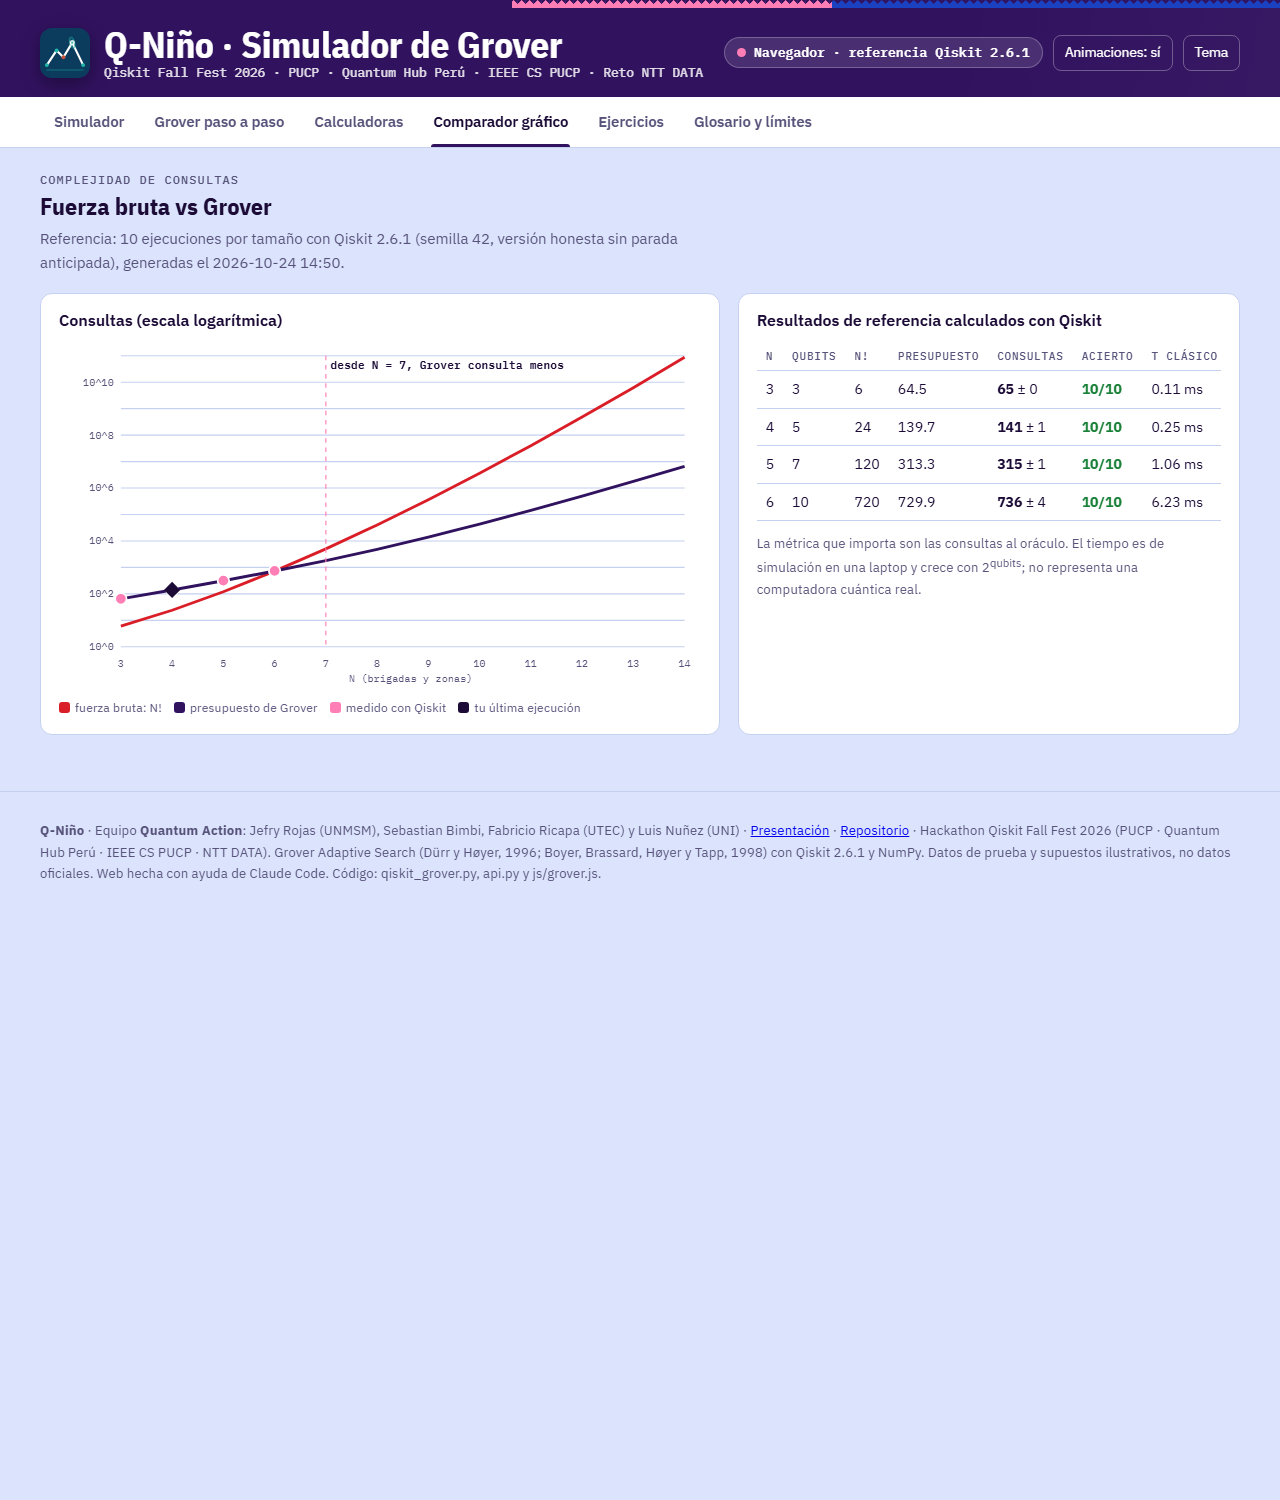
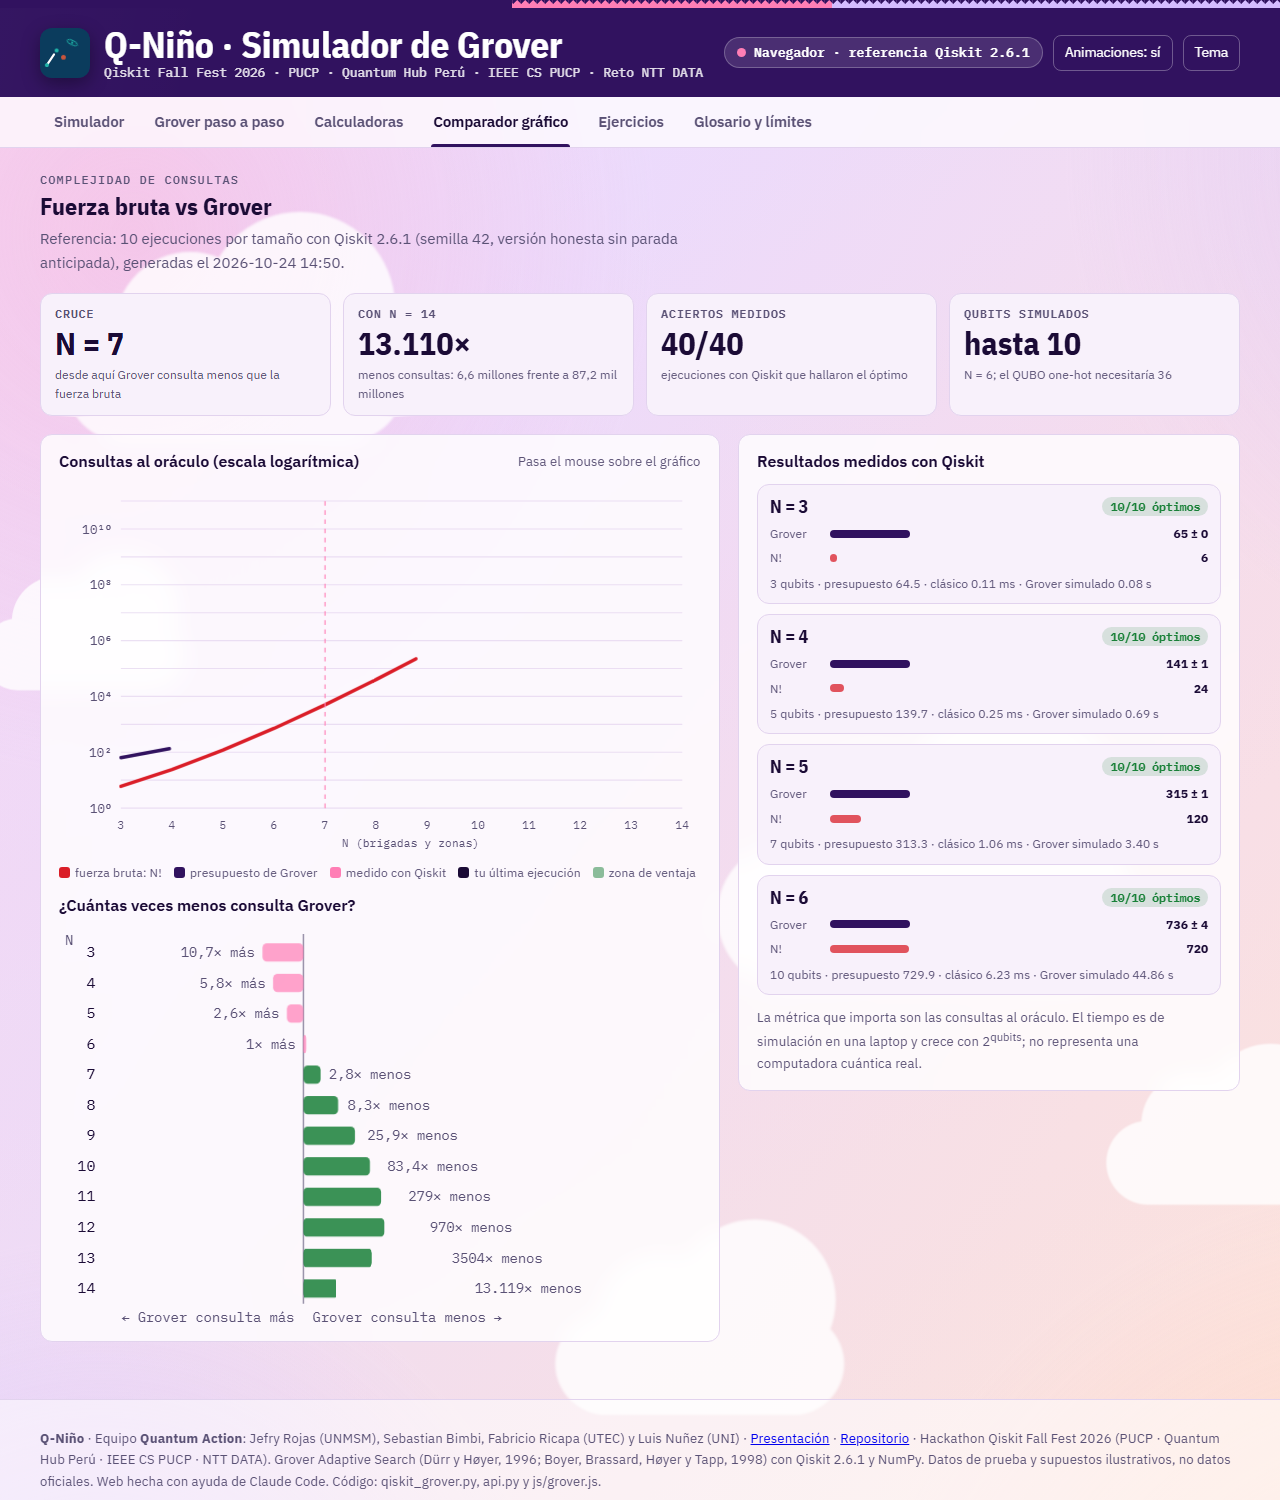
Rediseñar el comparador gráfico
- Datos clave: cruce en N = 7, 13 119× menos consultas con N = 14,
  40/40 óptimos y hasta 10 qubits simulados.
- Gráfico con líneas que se dibujan, zona de ventaja de Grover sombreada,
  potencias en superíndice y detalle por N al pasar el mouse.
- Nuevo gráfico de barras divergentes con cuántas veces más o menos
  consulta Grover para N = 3 a 14.
- Resultados de Qiskit como tarjetas con barras Grover vs N!, sin scroll.

diff --git a/js/app.js b/js/app.js
@@ -478,21 +478,74 @@ function iterCalc() {
 $("iU").onchange = iterCalc; $("iJ").oninput = iterCalc;
 
 /* ---------------- Comparador ---------------- */
+const SUP = s => String(s).replace(/[0-9]/g, d => "⁰¹²³⁴⁵⁶⁷⁸⁹"[d]);
+const fmtN = x => x >= 1e9 ? (x / 1e9).toLocaleString("es", { maximumFractionDigits: 1 }) + " mil millones" : x >= 1e6 ? (x / 1e6).toLocaleString("es", { maximumFractionDigits: 1 }) + " millones" : Math.round(x).toLocaleString("es");
 function renderCompare() {
   $("cmpIntro").textContent = Q ? `Referencia: ${Q.repeticiones} ejecuciones por tamaño con Qiskit ${Q.qiskit} (semilla ${Q.semilla}, versión honesta sin parada anticipada), generadas el ${Q.generado}.` : "Sin datos de referencia de Qiskit: ejecuta qiskit_grover.py.";
-  if (Q) $("rtab").innerHTML = `<tr><th class="num">N</th><th class="num">Qubits</th><th class="num">N!</th><th class="num">Presupuesto</th><th class="num">Consultas</th><th class="num">Acierto</th><th class="num">t clásico</th><th class="num">t Grover simulado</th></tr>` +
-    Object.values(Q.instancias).map(i => { const q = i.runs.map(r => r.consultas); return `<tr><td class="num">${i.n}</td><td class="num">${i.qubits}</td><td class="num">${i.M}</td><td class="num">${i.presupuesto}</td><td class="num"><b>${mean(q).toFixed(0)}</b> ± ${sd(q).toFixed(0)}</td><td class="num ok">${i.runs.filter(r => r.optimo).length}/${i.runs.length}</td><td class="num">${(i.clasico_s * 1000).toFixed(2)} ms</td><td class="num">${mean(i.runs.map(r => r.tiempo_s)).toFixed(2)} s</td></tr>`; }).join("");
-  const W = 560, H = 300, pl = 54, pb = 34, ns = [3, 4, 5, 6, 7, 8, 9, 10, 11, 12, 13, 14], X = n => pl + (W - pl - 14) * (n - 3) / 11, Y = v => 12 + (H - pb - 12) * (1 - Math.log10(v) / 11);
-  let g = ""; for (let e = 0; e <= 11; e++) g += `<line x1="${pl}" x2="${W - 14}" y1="${Y(10 ** e)}" y2="${Y(10 ** e)}" stroke="var(--line)"/>${e % 2 ? "" : `<text x="${pl - 6}" y="${Y(10 ** e) + 3}" text-anchor="end" font-size="9" fill="var(--muted)">10^${e}</text>`}`;
-  ns.forEach(n => g += `<text x="${X(n)}" y="${H - 16}" text-anchor="middle" font-size="9" fill="var(--muted)">${n}</text>`);
-  g += `<text x="${(pl + W) / 2}" y="${H - 3}" text-anchor="middle" font-size="9" fill="var(--muted)">N (brigadas y zonas)</text>`;
-  const line = (f, c) => `<path d="M${ns.map(n => X(n) + "," + Y(f(n))).join(" L")}" fill="none" stroke="${c}" stroke-width="2.5"/>`;
-  g += line(n => G.fact(n), "var(--bad)") + line(n => G.presupuesto(G.fact(n)), "var(--qiskit)");
-  const cross = ns.find(n => G.presupuesto(G.fact(n)) < G.fact(n));
-  g += `<line x1="${X(cross)}" x2="${X(cross)}" y1="12" y2="${H - pb}" stroke="var(--otono)" stroke-dasharray="4 4"/><text x="${X(cross) + 4}" y="24" font-size="10" fill="var(--ink)" font-weight="600">desde N = ${cross}, Grover consulta menos</text>`;
-  if (Q) Object.values(Q.instancias).forEach(i => g += `<circle cx="${X(i.n)}" cy="${Y(mean(i.runs.map(r => r.consultas)))}" r="5" fill="var(--otono)" stroke="var(--surface)" stroke-width="1.5"/>`);
-  if (R) g += `<rect x="${X(R.n) - 5}" y="${Y(mean(R.runs.map(r => r.consultas))) - 5}" width="10" height="10" fill="var(--ink)" transform="rotate(45 ${X(R.n)} ${Y(mean(R.runs.map(r => r.consultas)))})"/>`;
-  $("logc").innerHTML = g;
+  const ns = [3, 4, 5, 6, 7, 8, 9, 10, 11, 12, 13, 14], NF = n => G.fact(n), BU = n => G.presupuesto(G.fact(n));
+  const cross = ns.find(n => BU(n) < NF(n)), inst = Q ? Object.values(Q.instancias) : [];
+  const tot = inst.flatMap(i => i.runs), okAll = tot.filter(r => r.optimo).length, maxI = inst[inst.length - 1];
+
+  // Datos clave
+  $("cmpKpis").innerHTML = [
+    ["Cruce", `N = <span class="cnt">${cross}</span>`, "desde aquí Grover consulta menos que la fuerza bruta"],
+    ["Con N = 14", `<span class="cnt">${Math.round(NF(14) / BU(14)).toLocaleString("es")}</span>×`, `menos consultas: ${fmtN(BU(14))} frente a ${fmtN(NF(14))}`],
+    ["Aciertos medidos", `<span class="cnt">${okAll}</span>/${tot.length}`, `ejecuciones con Qiskit que hallaron el óptimo`],
+    ["Qubits simulados", `hasta <span class="cnt">${maxI ? maxI.qubits : "—"}</span>`, maxI ? `N = ${maxI.n}; el QUBO one-hot necesitaría ${maxI.n * maxI.n}` : ""]]
+    .map(([t, v, s], i) => `<div class="tile" style="--i:${i}"><span class="tl">${t}</span><b class="big">${v}</b><span class="ts">${s}</span></div>`).join("");
+
+  // Filas de resultados con barra Grover vs N!
+  $("rtab").innerHTML = inst.map((i, k) => { const q = i.runs.map(r => r.consultas), qm = mean(q), mx = Math.max(qm, i.M), ok = i.runs.filter(r => r.optimo).length;
+    return `<div class="rr" style="--i:${k}"><div class="rh"><b class="rn">N = ${i.n}</b><span class="badge ${ok === i.runs.length ? "ok" : "o"}">${ok}/${i.runs.length} óptimos</span></div>
+      <div class="rbars"><div class="mbar q"><span>Grover</span><i style="--w:${(qm / mx * 100).toFixed(1)}%"></i><b>${qm.toFixed(0)} ± ${sd(q).toFixed(0)}</b></div>
+      <div class="mbar"><span>N!</span><i style="--w:${(i.M / mx * 100).toFixed(1)}%"></i><b>${i.M}</b></div></div>
+      <span class="ts">${i.qubits} qubits · presupuesto ${i.presupuesto} · clásico ${(i.clasico_s * 1000).toFixed(2)} ms · Grover simulado ${mean(i.runs.map(r => r.tiempo_s)).toFixed(2)} s</span></div>`; }).join("");
+
+  // ¿Cuántas veces menos consulta? (barras divergentes, escala log)
+  const RW = 420, RH = ns.length * 20 + 20, mid = 160, sc = 26;
+  let r = `<line x1="${mid}" x2="${mid}" y1="4" y2="${RH - 14}" stroke="var(--muted)" stroke-opacity=".6"/>`;
+  r += `<text x="${mid - 6}" y="${RH - 2}" text-anchor="end" font-size="9" fill="var(--muted)">← Grover consulta más</text><text x="${mid + 6}" y="${RH - 2}" font-size="9" fill="var(--muted)">Grover consulta menos →</text>`;
+  ns.forEach((n, k) => { const ratio = NF(n) / BU(n), l = Math.log10(ratio), y = 8 + k * 20, w = Math.abs(l) * sc, win = ratio >= 1;
+    r += `<text x="24" y="${y + 11}" font-size="10" fill="var(--ink)" text-anchor="end">${n}</text>`;
+    r += `<rect class="rbar" style="--i:${k}" x="${win ? mid : mid - w}" y="${y + 2}" width="${Math.max(2, w)}" height="12" rx="3" fill="var(${win ? "--ok" : "--otono"})" fill-opacity="${win ? .85 : .7}"/>`;
+    r += `<text x="${win ? mid + w + 5 : mid - w - 5}" y="${y + 11}" font-size="9" fill="var(--muted)" text-anchor="${win ? "start" : "end"}">${win ? `${ratio >= 100 ? Math.round(ratio).toLocaleString("es") : ratio.toLocaleString("es", { maximumFractionDigits: 1 })}× menos` : `${(1 / ratio).toLocaleString("es", { maximumFractionDigits: 1 })}× más`}</text>`; });
+  r += `<text x="4" y="11" font-size="9" fill="var(--muted)">N</text>`;
+  $("ratio").setAttribute("viewBox", `0 0 ${RW} ${RH}`); $("ratio").innerHTML = r;
+
+  // Gráfico principal: líneas que se dibujan, zona de ventaja y detalle al pasar el mouse
+  const W = 560, H = 320, pl = 54, pb = 38, X = n => pl + (W - pl - 16) * (n - 3) / 11, Y = v => 14 + (H - pb - 14) * (1 - Math.log10(v) / 11);
+  let g = "";
+  for (let e = 0; e <= 11; e++) g += `<line x1="${pl}" x2="${W - 16}" y1="${Y(10 ** e)}" y2="${Y(10 ** e)}" stroke="var(--line)" stroke-opacity=".7"/>${e % 2 ? "" : `<text x="${pl - 8}" y="${Y(10 ** e) + 4}" text-anchor="end" font-size="11" fill="var(--muted)">10${SUP(e)}</text>`}`;
+  ns.forEach(n => g += `<text x="${X(n)}" y="${H - 20}" text-anchor="middle" font-size="10" fill="var(--muted)">${n}</text>`);
+  g += `<text x="${(pl + W) / 2}" y="${H - 4}" text-anchor="middle" font-size="10" fill="var(--muted)">N (brigadas y zonas)</text>`;
+  const pts = f => ns.map(n => [X(n), Y(f(n))]), pN = pts(NF), pB = pts(BU), ci = ns.indexOf(cross);
+  // zona de ventaja: entre N! (arriba) y el presupuesto (abajo) desde el cruce
+  const zone = [...pN.slice(ci - 1), ...pB.slice(ci - 1).reverse()];
+  g += `<polygon class="zone" points="${zone.map(p => p.join(",")).join(" ")}" fill="var(--ok)" fill-opacity=".12"/>`;
+  g += `<text class="zone" x="${X(11)}" y="${Y(1e7)}" font-size="11" font-weight="600" fill="var(--ok)" text-anchor="middle">zona de ventaja de Grover</text>`;
+  const path = (p, c, cls) => `<path class="ln ${cls}" pathLength="1" d="M${p.map(q => q.join(",")).join(" L")}" fill="none" stroke="${c}" stroke-width="3" stroke-linecap="round" stroke-linejoin="round"/>`;
+  g += path(pN, "var(--bad)", "l1") + path(pB, "var(--qiskit)", "l2");
+  g += `<line x1="${X(cross)}" x2="${X(cross)}" y1="14" y2="${H - pb}" stroke="var(--otono)" stroke-dasharray="4 4"/><g class="xlab"><rect x="${X(cross) + 6}" y="16" width="196" height="22" rx="11" fill="var(--surface)" stroke="var(--otono)"/><text x="${X(cross) + 104}" y="31" text-anchor="middle" font-size="11" font-weight="600" fill="var(--ink)">desde N = ${cross}, Grover consulta menos</text></g>`;
+  inst.forEach((i, k) => g += `<circle class="pt" style="--i:${k}" cx="${X(i.n)}" cy="${Y(mean(i.runs.map(r => r.consultas)))}" r="6" fill="var(--otono)" stroke="var(--surface)" stroke-width="2"/>`);
+  if (R) { const x = X(R.n), y = Y(mean(R.runs.map(r => r.consultas))); g += `<polygon class="pt" points="${x},${y - 8} ${x + 8},${y} ${x},${y + 8} ${x - 8},${y}" fill="var(--ink)" stroke="var(--surface)" stroke-width="2"/>`; }
+  g += `<line id="cguide" x1="0" x2="0" y1="14" y2="${H - pb}" stroke="var(--ink)" stroke-opacity=".35" hidden/><circle id="cgN" r="5" fill="var(--bad)" hidden/><circle id="cgB" r="5" fill="var(--qiskit)" hidden/>`;
+  g += `<rect id="chit" x="${pl}" y="0" width="${W - pl - 16}" height="${H - pb}" fill="transparent"/>`;
+  const svg = $("logc"); svg.setAttribute("viewBox", `0 0 ${W} ${H}`); svg.innerHTML = g;
+  svg.classList.remove("play"); void svg.getBoundingClientRect(); svg.classList.add("play");
+
+  // Detalle al pasar el mouse: N, N!, presupuesto y la razón
+  const tip = $("ctip");
+  svg.onpointermove = e => {
+    const b = svg.getBoundingClientRect(), x = (e.clientX - b.left) / b.width * W, n = Math.max(3, Math.min(14, Math.round(3 + (x - pl) / ((W - pl - 16) / 11))));
+    const gx = X(n), me = inst.find(i => i.n === n), ratio = NF(n) / BU(n);
+    ["cguide", "cgN", "cgB"].forEach(id => $(id).hidden = false);
+    $("cguide").setAttribute("x1", gx); $("cguide").setAttribute("x2", gx);
+    $("cgN").setAttribute("cx", gx); $("cgN").setAttribute("cy", Y(NF(n))); $("cgB").setAttribute("cx", gx); $("cgB").setAttribute("cy", Y(BU(n)));
+    tip.hidden = false; tip.style.left = `${gx / W * 100}%`;
+    tip.innerHTML = `<b>N = ${n}</b><span><i style="background:var(--bad)"></i>N! = ${fmtN(NF(n))}</span><span><i style="background:var(--qiskit)"></i>presupuesto = ${fmtN(BU(n))}</span>${me ? `<span><i style="background:var(--otono)"></i>medido = ${mean(me.runs.map(r => r.consultas)).toFixed(0)}</span>` : ""}<em class="${ratio >= 1 ? "ok" : ""}">${ratio >= 1 ? `Grover: ${ratio >= 100 ? Math.round(ratio).toLocaleString("es") : ratio.toLocaleString("es", { maximumFractionDigits: 1 })}× menos` : `Grover: ${(1 / ratio).toLocaleString("es", { maximumFractionDigits: 1 })}× más`}</em>`;
+  };
+  svg.onpointerleave = () => { tip.hidden = true; ["cguide", "cgN", "cgB"].forEach(id => $(id).hidden = true); };
+  if (!reduced()) document.querySelectorAll("#cmpKpis .cnt").forEach(countUp);
 }
 
 /* ---------------- Ejercicios y glosario ---------------- */
@@ -577,7 +630,7 @@ $("foot").innerHTML = `<b>Q-Niño</b> · Equipo <b>Quantum Action</b>: Jefry Roj
 
 /* ---------------- Navegación, motor y tema ---------------- */
 function seg(id, opts, curv, cb) { const el = $(id); el.innerHTML = opts.map(n => `<button type="button" data-v="${n}" aria-pressed="${n === curv}">${n}</button>`).join(""); el.onclick = e => { const b = e.target.closest("button"); if (b) cb(+b.dataset.v); }; }
-function show(v) { if (!document.getElementById("v-" + v)) v = "simulador"; document.querySelectorAll("#menu button").forEach(b => b.setAttribute("aria-selected", b.dataset.v === v)); document.querySelectorAll("section.view").forEach(s => s.hidden = s.id !== "v-" + v); stagger(`#v-${v} .card`, null); if (v === "simulador" && LM) setTimeout(() => { LM.invalidateSize(); drawMapReal.key = null; drawMap(); }, 60); if (v !== "animacion") stop(); try { history.replaceState(null, "", "#" + v); } catch {} window.scrollTo({ top: 0 }); }
+function show(v) { if (!document.getElementById("v-" + v)) v = "simulador"; document.querySelectorAll("#menu button").forEach(b => b.setAttribute("aria-selected", b.dataset.v === v)); document.querySelectorAll("section.view").forEach(s => s.hidden = s.id !== "v-" + v); stagger(`#v-${v} .card`, null); if (v === "comparador") renderCompare(); if (v === "simulador" && LM) setTimeout(() => { LM.invalidateSize(); drawMapReal.key = null; drawMap(); }, 60); if (v !== "animacion") stop(); try { history.replaceState(null, "", "#" + v); } catch {} window.scrollTo({ top: 0 }); }
 $("menu").onclick = e => { const b = e.target.closest("button"); if (b) show(b.dataset.v); };
 function updEngine() { const el = $("engine"); el.classList.toggle("live", useBackend);
   $("engineTxt").textContent = useBackend ? `Qiskit ${backend.qiskit} en vivo · servidor local` : backend ? "Navegador (clic para usar Qiskit en vivo)" : Q ? `Navegador · referencia Qiskit ${Q.qiskit}` : "Navegador"; }

diff --git a/css/styles.css b/css/styles.css
@@ -561,3 +561,35 @@ html.motion .log div.new{animation:slideIn .4s cubic-bezier(.2,.7,.2,1)}
 html.motion .bar.hit i{box-shadow:0 0 0 3px var(--surface),0 0 0 6px var(--otono)}
 @keyframes curPulse{50%{transform:scale(1.25)}}
 @keyframes ctaFloat{50%{transform:translate(-50%,-56%)}}
+
+/* ---------------- Comparador ---------------- */
+#v-comparador .g2{align-items:start}
+.chartwrap{position:relative}
+#logc{display:block;cursor:crosshair}
+.ctip{position:absolute;top:8px;transform:translateX(-50%);display:grid;gap:3px;padding:8px 10px;border-radius:10px;background:var(--surface);border:1px solid var(--line);box-shadow:0 8px 24px rgba(0,0,0,.25);font-size:.8rem;pointer-events:none;white-space:nowrap;z-index:2}
+.ctip span{display:flex;align-items:center;gap:6px;color:var(--muted)}
+.ctip i{width:9px;height:9px;border-radius:50%;display:inline-block}
+.ctip em{font-style:normal;font-weight:700;color:var(--otono-ink)}
+.ctip em.ok{color:var(--ok)}
+.rrows{display:grid;gap:10px}
+.rr{display:grid;gap:6px;padding:10px 12px;border-radius:12px;background:var(--sunk);border:1px solid var(--line)}
+.rh{display:flex;justify-content:space-between;align-items:center}
+.rn{font:700 1.1rem var(--cond)}
+.rbars{display:grid;gap:5px}
+.rr .mbar{grid-template-columns:54px minmax(0,1fr) 72px}
+.rr .mbar i{background:var(--bad);opacity:.75}
+.rr .mbar.q i{background:var(--qiskit);opacity:1}
+html.motion #logc.play .ln{stroke-dasharray:1;stroke-dashoffset:1;animation:lineDraw 1.6s cubic-bezier(.4,0,.2,1) forwards}
+html.motion #logc.play .l2{animation-delay:.3s}
+html.motion #logc.play .zone{animation:fadeIn .8s 1.4s ease-out backwards}
+html.motion #logc.play .xlab{animation:popIn .45s 1.2s cubic-bezier(.3,1.4,.5,1) backwards;transform-box:fill-box;transform-origin:left}
+html.motion #logc.play .pt{transform-box:fill-box;transform-origin:center;animation:popIn .45s cubic-bezier(.3,1.6,.5,1) backwards;animation-delay:calc(var(--i,0) * 120ms + 1.5s)}
+html.motion section.view:not([hidden]) .rr{animation:fadeUp .45s cubic-bezier(.2,.7,.2,1) backwards;animation-delay:calc(var(--i,0) * 90ms + .2s)}
+html.motion section.view:not([hidden]) .rr .mbar i{animation:growW .9s cubic-bezier(.2,.7,.2,1) backwards;animation-delay:.5s}
+html.motion section.view:not([hidden]) #ratio .rbar{transform-box:fill-box;transform-origin:left;animation:growX .6s cubic-bezier(.2,.7,.2,1) backwards;animation-delay:calc(var(--i,0) * 50ms + .4s)}
+html.motion section.view:not([hidden]) #cmpKpis .tile{animation:fadeUp .5s cubic-bezier(.2,.7,.2,1) backwards;animation-delay:calc(var(--i,0) * 90ms)}
+html.motion .rr{transition:transform .2s,box-shadow .2s}
+html.motion .rr:hover{transform:translateY(-2px);box-shadow:0 6px 16px color-mix(in srgb,var(--qiskit) 14%,transparent)}
+@keyframes lineDraw{to{stroke-dashoffset:0}}
+@keyframes fadeIn{from{opacity:0}}
+@keyframes growX{from{transform:scaleX(0)}}

diff --git a/index.html b/index.html
@@ -177,10 +177,14 @@
 <!-- ============ COMPARADOR ============ -->
 <section class="view" id="v-comparador" hidden>
   <div class="shead"><span class="eyebrow">Complejidad de consultas</span><h2>Fuerza bruta vs Grover</h2><p id="cmpIntro"></p></div>
+  <div class="tiles" id="cmpKpis"></div>
   <div class="g2">
-    <div class="card"><h3>Consultas (escala logarítmica)</h3><svg id="logc" viewBox="0 0 560 300" width="100%" role="img" aria-label="Consultas clásico vs Grover"></svg>
-      <div class="legend"><span><i style="background:var(--bad)"></i>fuerza bruta: N!</span><span><i style="background:var(--qiskit)"></i>presupuesto de Grover</span><span><i style="background:var(--otono)"></i>medido con Qiskit</span><span><i style="background:var(--ink)"></i>tu última ejecución</span></div></div>
-    <div class="card"><h3>Resultados de referencia calculados con Qiskit</h3><div class="scroll"><table class="t" id="rtab"></table></div>
+    <div class="card"><div class="row between"><h3>Consultas al oráculo (escala logarítmica)</h3><span class="muted small">Pasa el mouse sobre el gráfico</span></div>
+      <div class="chartwrap"><svg id="logc" viewBox="0 0 560 320" width="100%" role="img" aria-label="Consultas de la fuerza bruta frente al presupuesto de Grover según N"></svg><div class="ctip" id="ctip" hidden></div></div>
+      <div class="legend"><span><i style="background:var(--bad)"></i>fuerza bruta: N!</span><span><i style="background:var(--qiskit)"></i>presupuesto de Grover</span><span><i style="background:var(--otono)"></i>medido con Qiskit</span><span><i style="background:var(--ink)"></i>tu última ejecución</span><span><i style="background:var(--ok);opacity:.5"></i>zona de ventaja</span></div>
+      <h3>¿Cuántas veces menos consulta Grover?</h3>
+      <svg id="ratio" viewBox="0 0 420 260" width="100%" role="img" aria-label="Razón entre N! y el presupuesto de Grover para cada N"></svg></div>
+    <div class="card"><h3>Resultados medidos con Qiskit</h3><div class="rrows" id="rtab"></div>
       <p class="muted small">La métrica que importa son las consultas al oráculo. El tiempo es de simulación en una laptop y crece con 2<sup>qubits</sup>; no representa una computadora cuántica real.</p></div>
   </div>
 </section>
